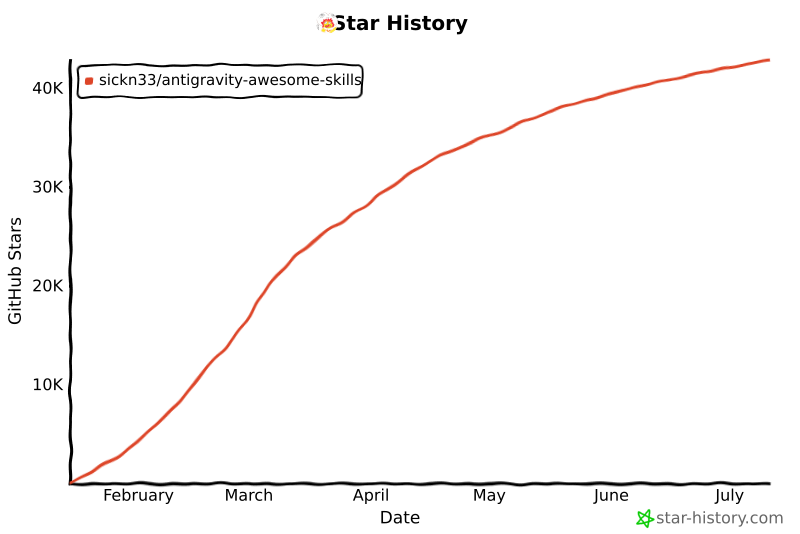
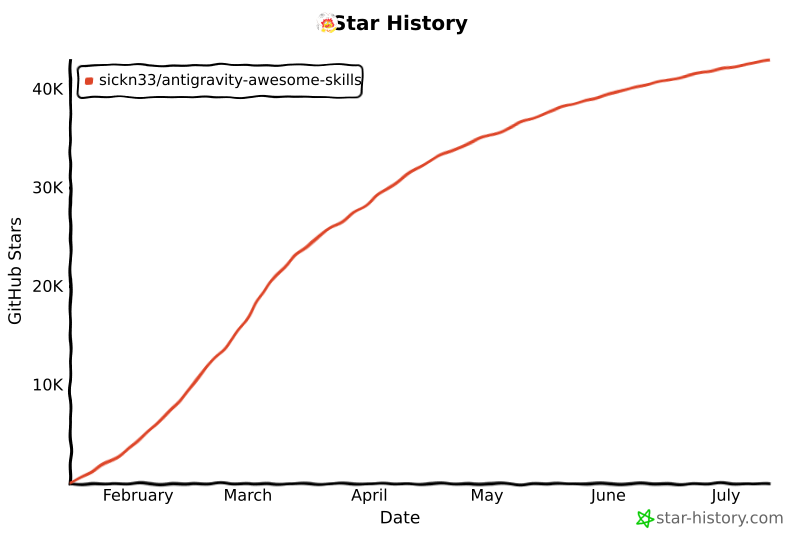
chore: update star history chart

diff --git a/README.md b/README.md
@@ -547,14 +547,14 @@ We officially thank the following contributors for their help in making this rep
 ## Star History
 
 <a href="https://www.star-history.com/#sickn33/antigravity-awesome-skills&type=date&legend=top-left">
- <img alt="Star History Chart" src="https://api.star-history.com/svg?repos=sickn33/antigravity-awesome-skills&type=date&legend=top-left&cache_bust=202607110801" />
+ <img alt="Star History Chart" src="https://api.star-history.com/svg?repos=sickn33/antigravity-awesome-skills&type=date&legend=top-left&cache_bust=202607120822" />
 </a>
 
 <a href="https://www.star-history.com/sickn33/antigravity-awesome-skills">
  <picture>
-   <source media="(prefers-color-scheme: dark)" srcset="https://api.star-history.com/chart?repos=sickn33/antigravity-awesome-skills&style=landscape1&theme=dark&cache_bust=202607110801" />
-   <source media="(prefers-color-scheme: light)" srcset="https://api.star-history.com/chart?repos=sickn33/antigravity-awesome-skills&style=landscape1&cache_bust=202607110801" />
-   <img alt="Star History Chart" src="https://api.star-history.com/chart?repos=sickn33/antigravity-awesome-skills&style=landscape1&cache_bust=202607110801" />
+   <source media="(prefers-color-scheme: dark)" srcset="https://api.star-history.com/chart?repos=sickn33/antigravity-awesome-skills&style=landscape1&theme=dark&cache_bust=202607120822" />
+   <source media="(prefers-color-scheme: light)" srcset="https://api.star-history.com/chart?repos=sickn33/antigravity-awesome-skills&style=landscape1&cache_bust=202607120822" />
+   <img alt="Star History Chart" src="https://api.star-history.com/chart?repos=sickn33/antigravity-awesome-skills&style=landscape1&cache_bust=202607120822" />
  </picture>
 </a>
 
